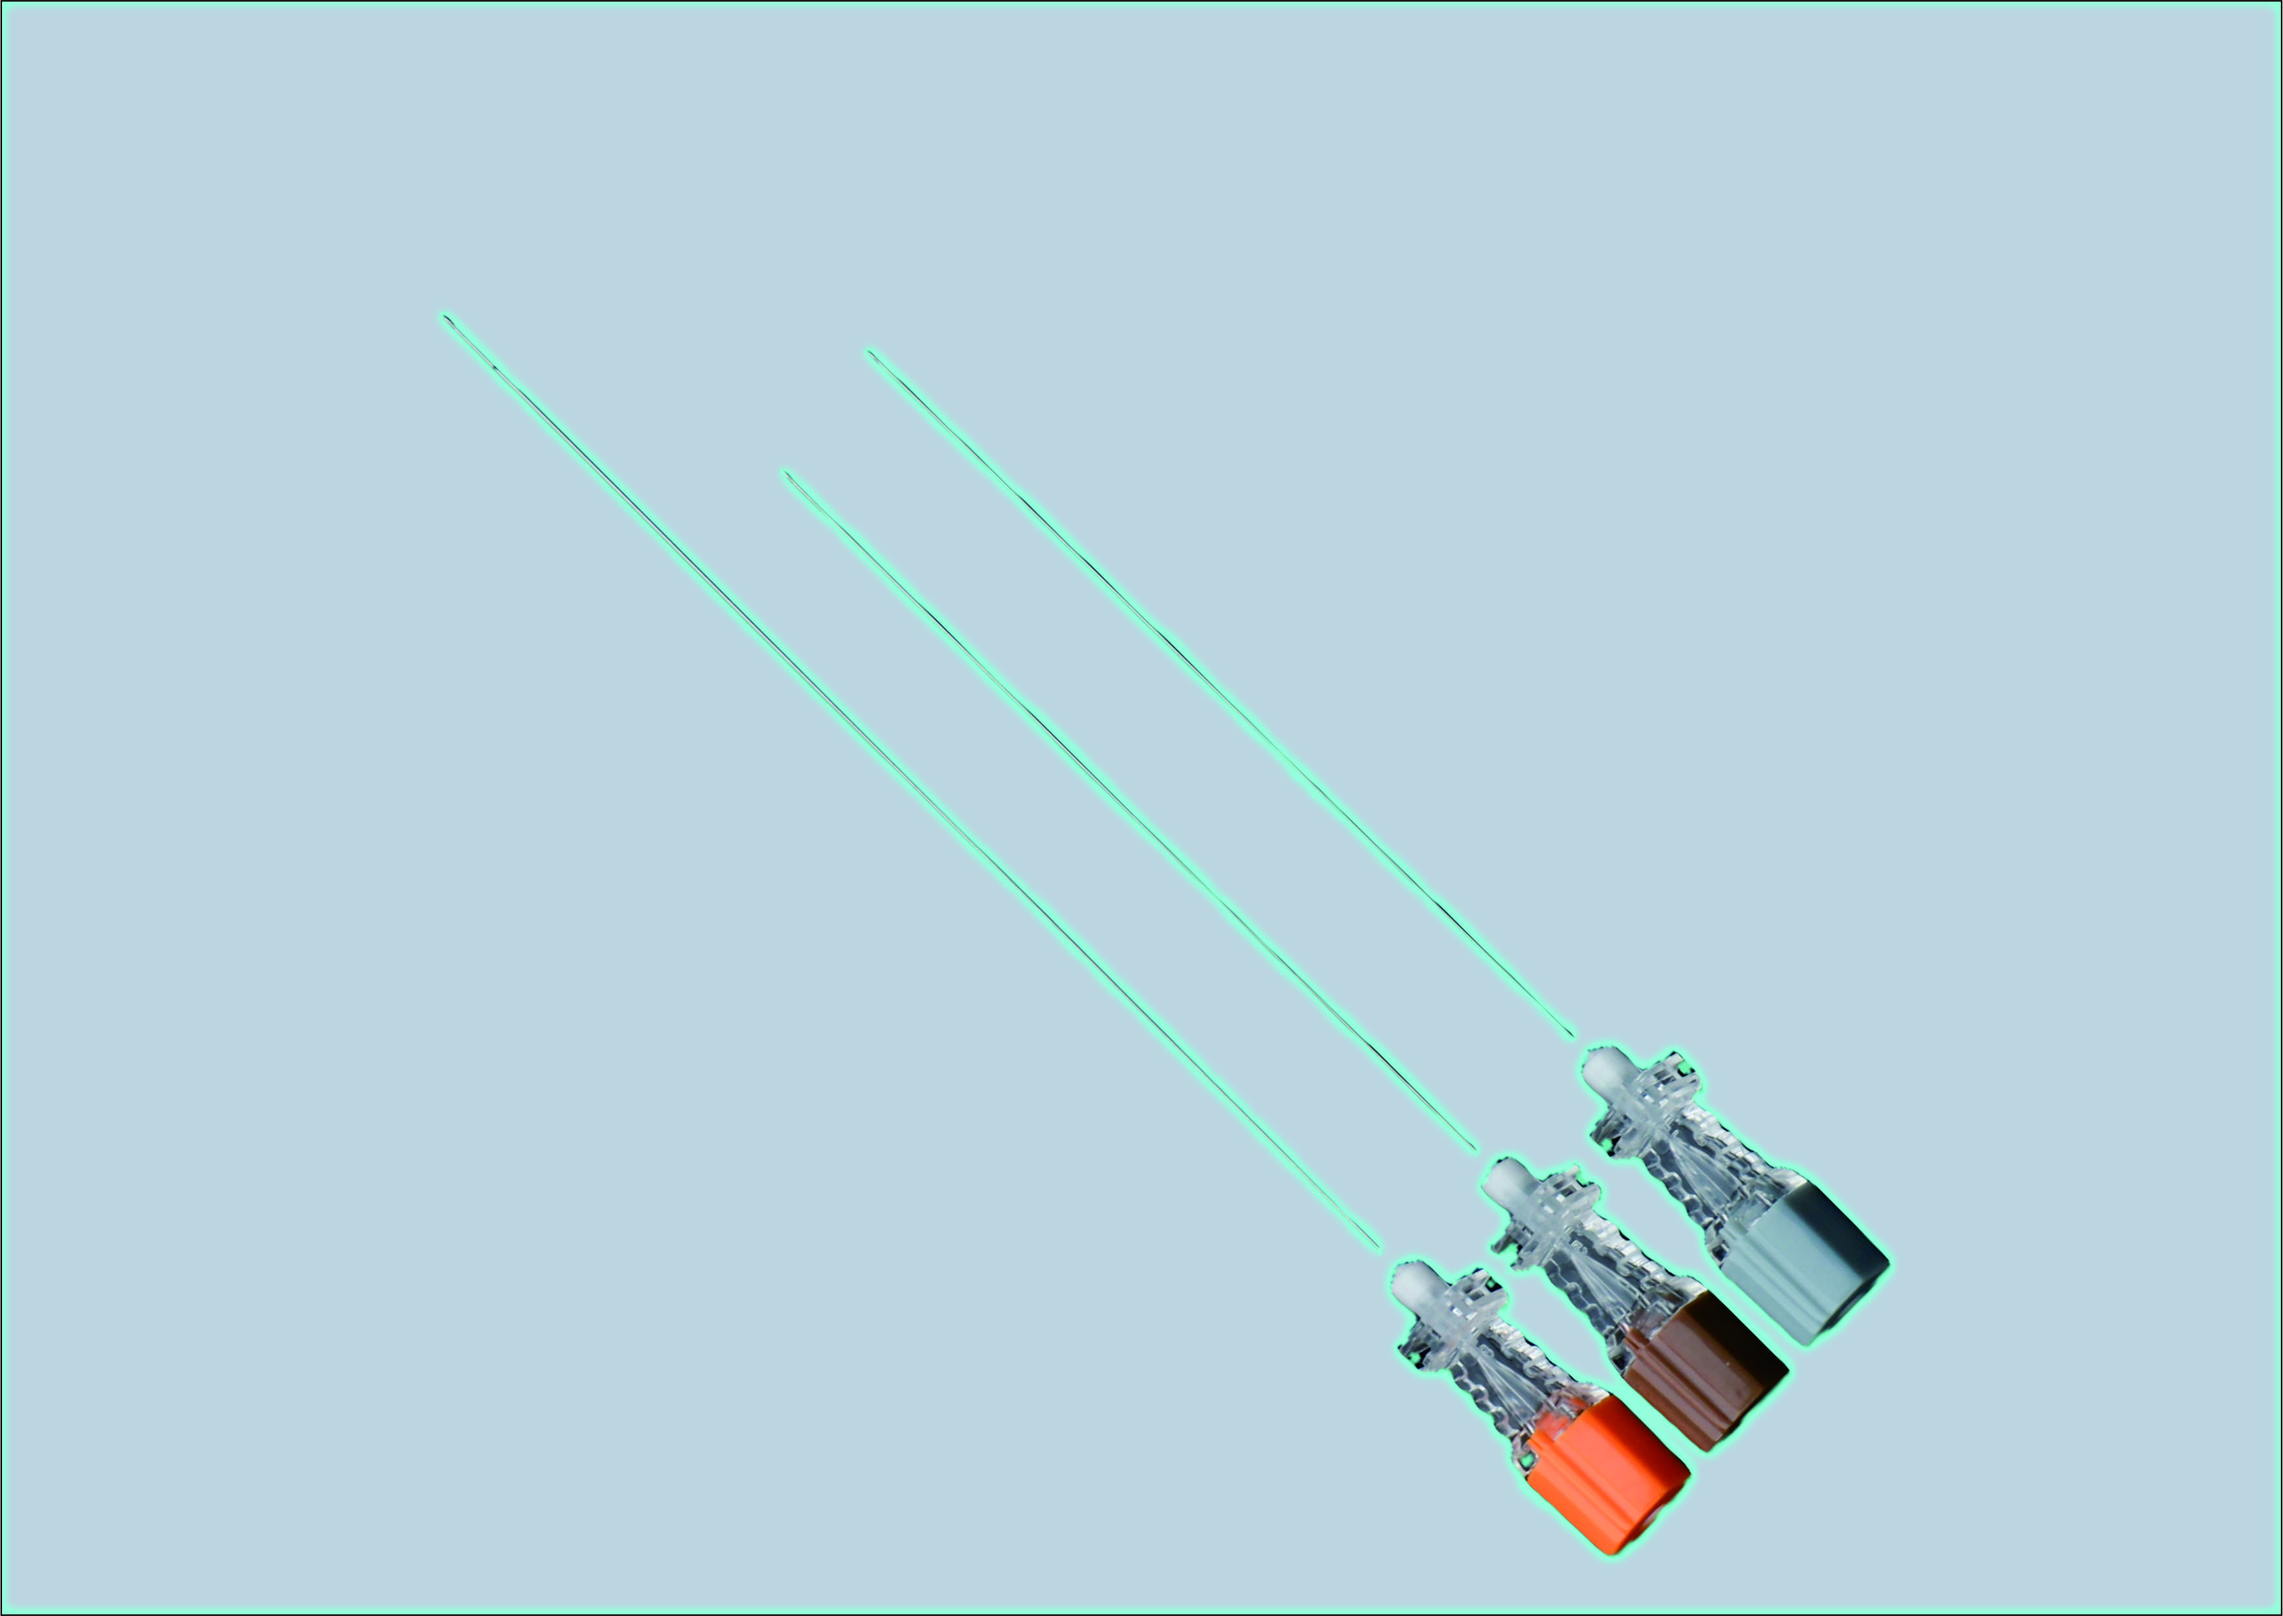
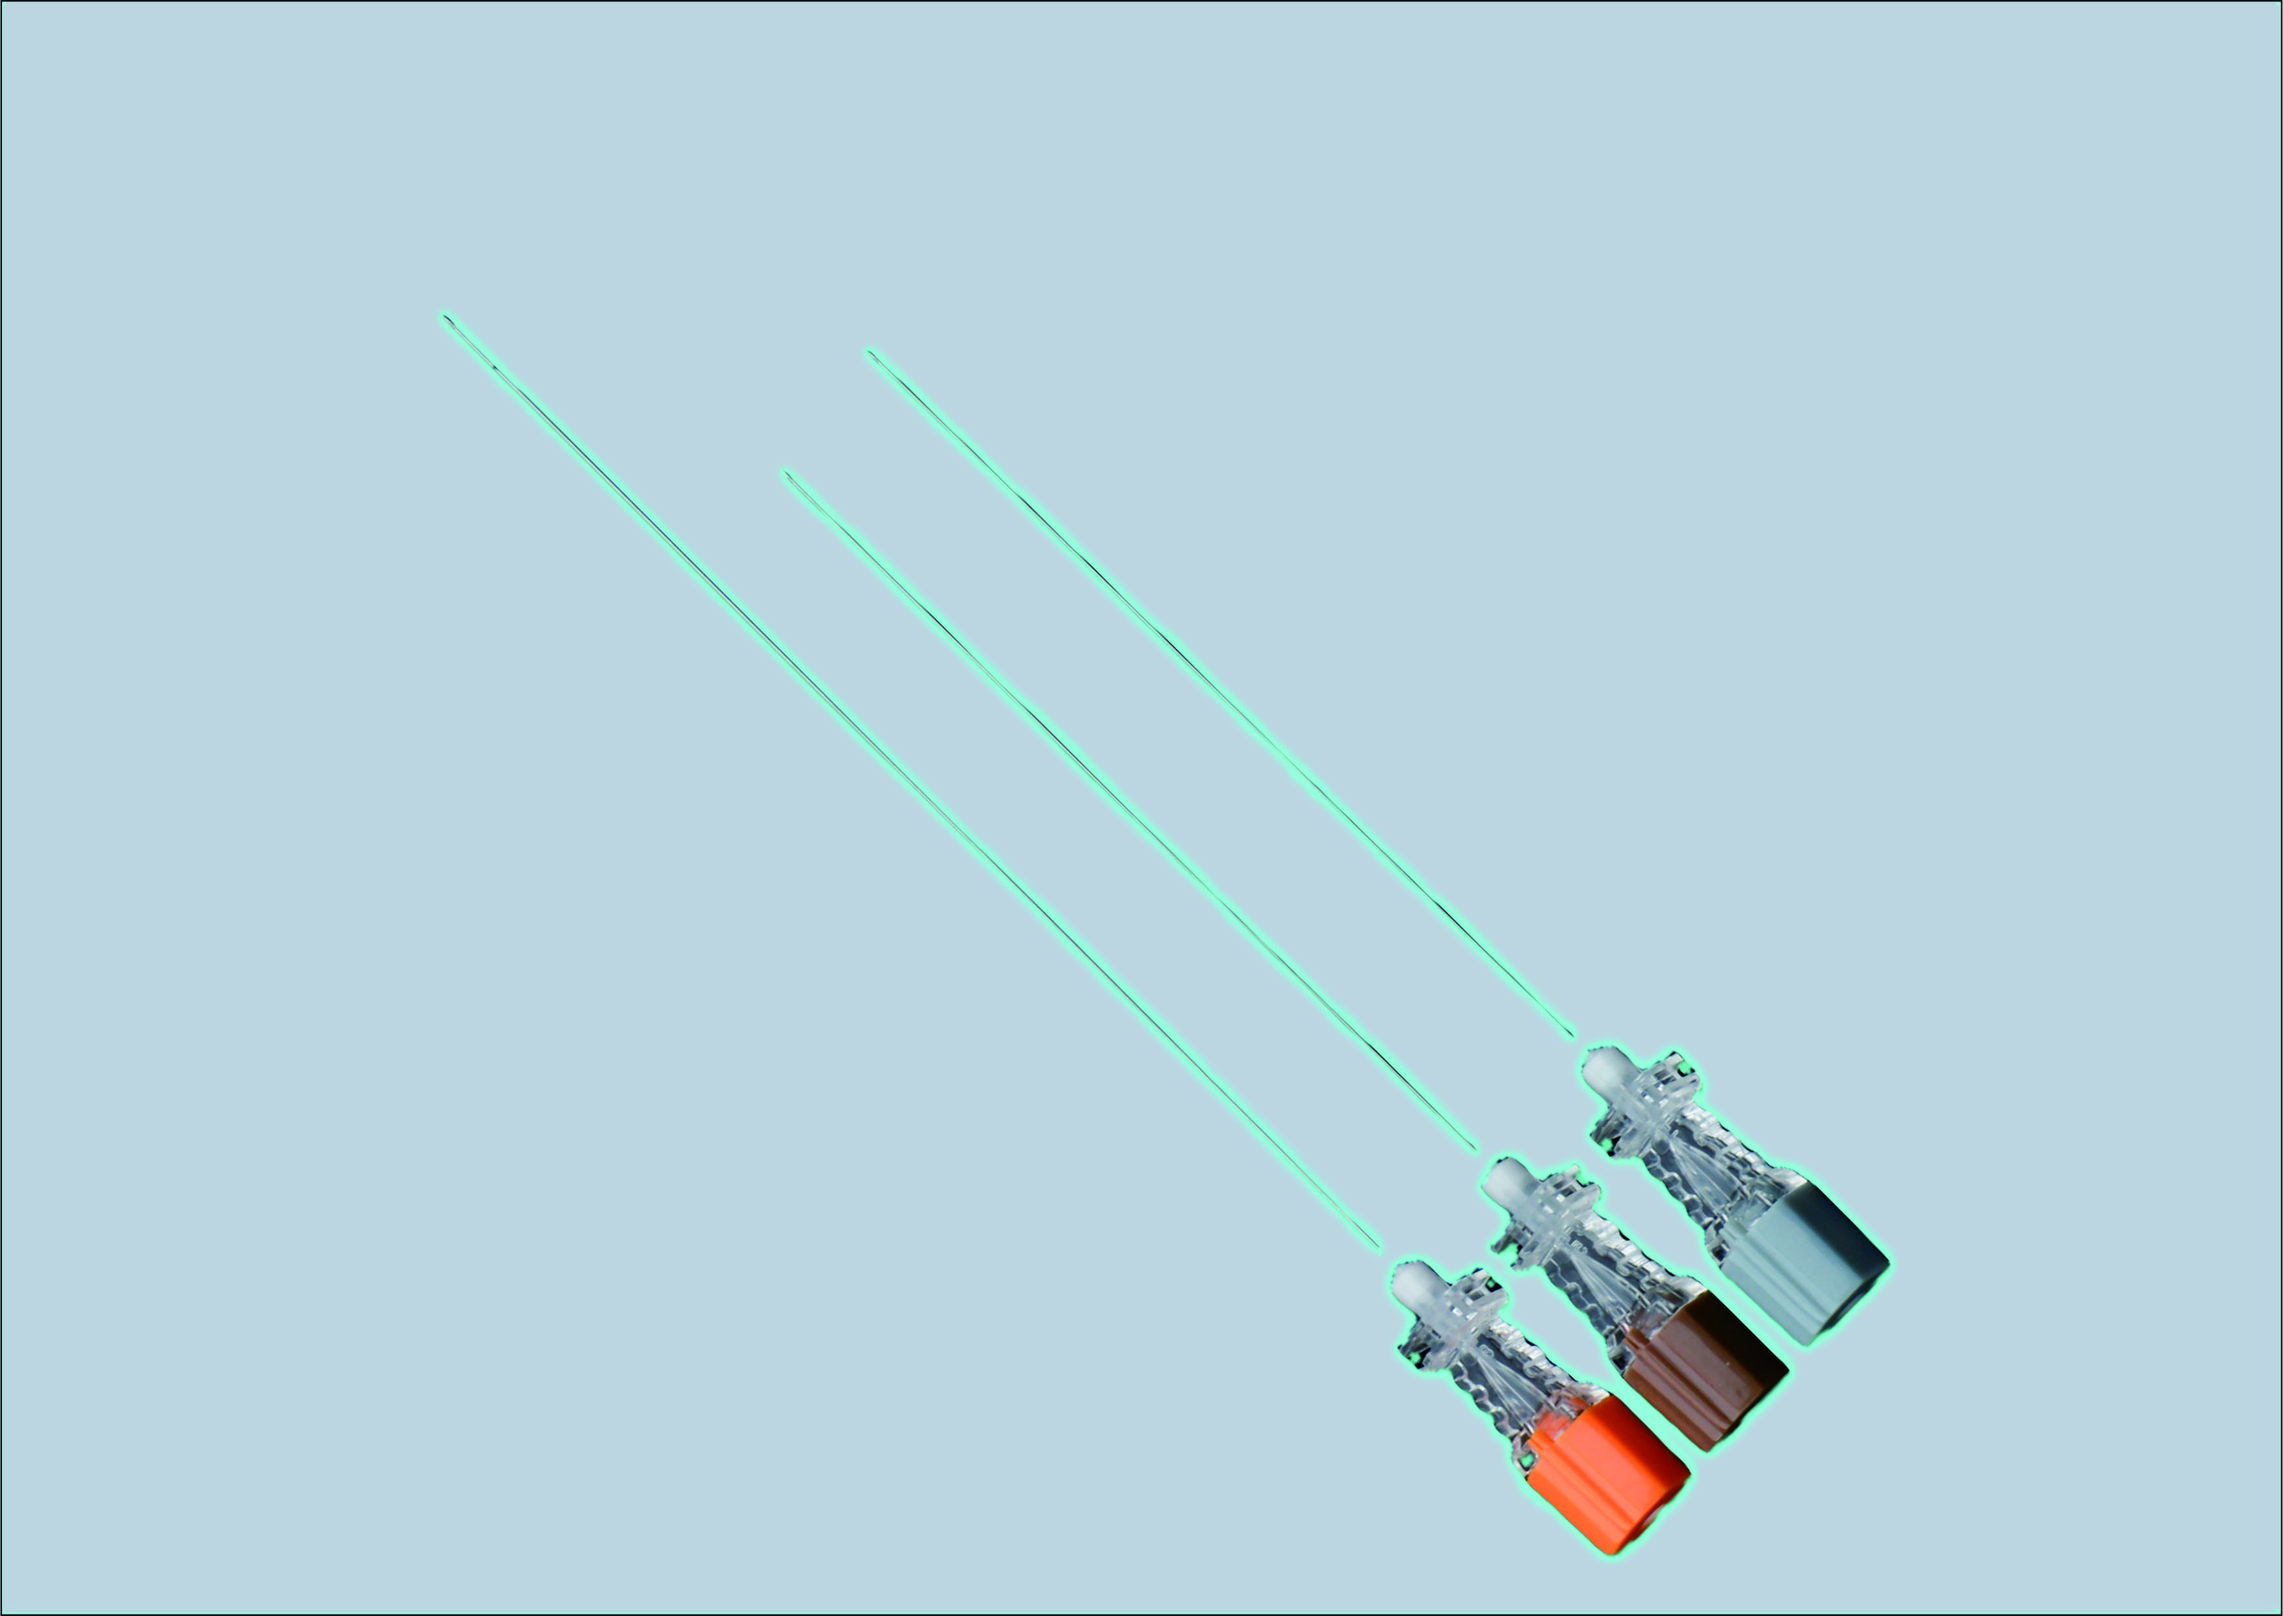
fix: normalize supplied OEM image canvas border

Changed region(s): [[0.0, 0.0, 1.0, 1.0], [0.0, 0.0, 0.0311, 0.031]]

diff --git a/scripts/unify-oem-backgrounds.py b/scripts/unify-oem-backgrounds.py
@@ -40,8 +40,14 @@ for idx,p in enumerate(sorted(src.iterdir())):
   reference=np.median(f[int(.02*h):int(.1*h),int(.4*w):int(.6*w)].reshape(-1,3),axis=0)
   keep=np.max(np.abs(f-reference),axis=2)>7
  keep=np.array(Image.fromarray((keep*255).astype('uint8')).filter(ImageFilter.MaxFilter(3)))>0
+ # Supplied Sprotte images include a thin green canvas border, not product.
+ # No product reaches any canvas edge; normalize this background-only frame.
+ if p.stem.startswith('sprotte'):
+  edge=max(3,int(min(w,h)*.002));keep[:edge,:]=False;keep[-edge:,:]=False;keep[:,:edge]=False;keep[:,-edge:]=False
  blur=np.array(Image.fromarray(((~keep)*255).astype('uint8')).filter(ImageFilter.GaussianBlur(max(3,w/400))),dtype='float32')/255
  alpha=np.clip((blur-.5)*2,0,1);alpha[keep]=0;alpha=alpha*alpha*(3-2*alpha)
+ if p.stem.startswith('sprotte'):
+  alpha[:edge,:]=1;alpha[-edge:,:]=1;alpha[:,:edge]=1;alpha[:,-edge:]=1
  sample=alpha>.999;lum=f[:,:,0]*.2126+f[:,:,1]*.7152+f[:,:,2]*.0722
  offset=lum-float(np.median(lum[sample]));result=a.copy()
  for c,target in enumerate([187,214,225]):result[:,:,c]=np.rint(f[:,:,c]*(1-alpha)+np.clip(target+offset,0,255)*alpha).astype('uint8')
